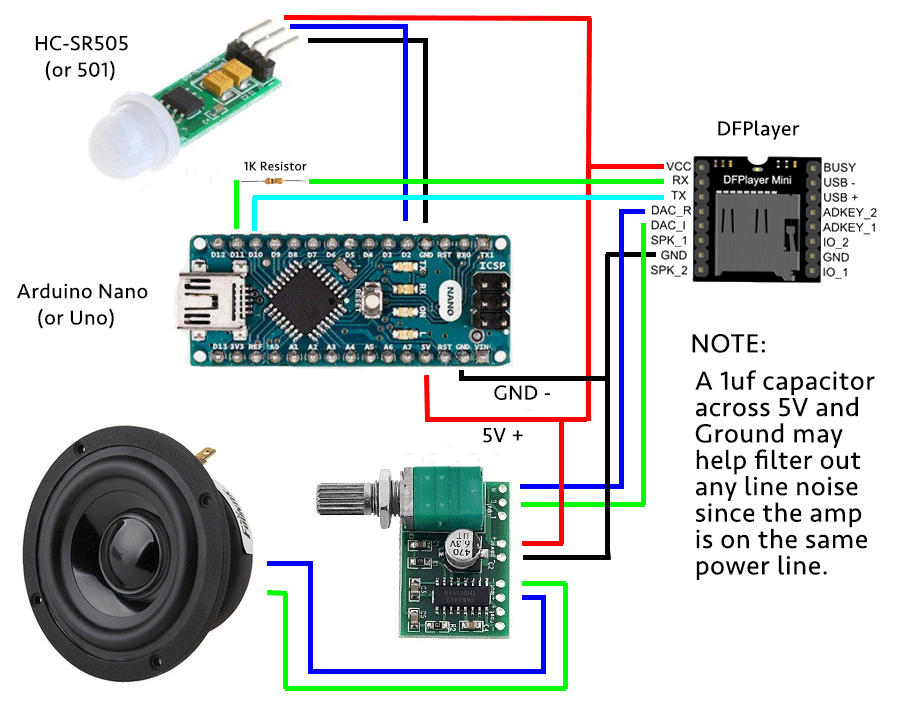
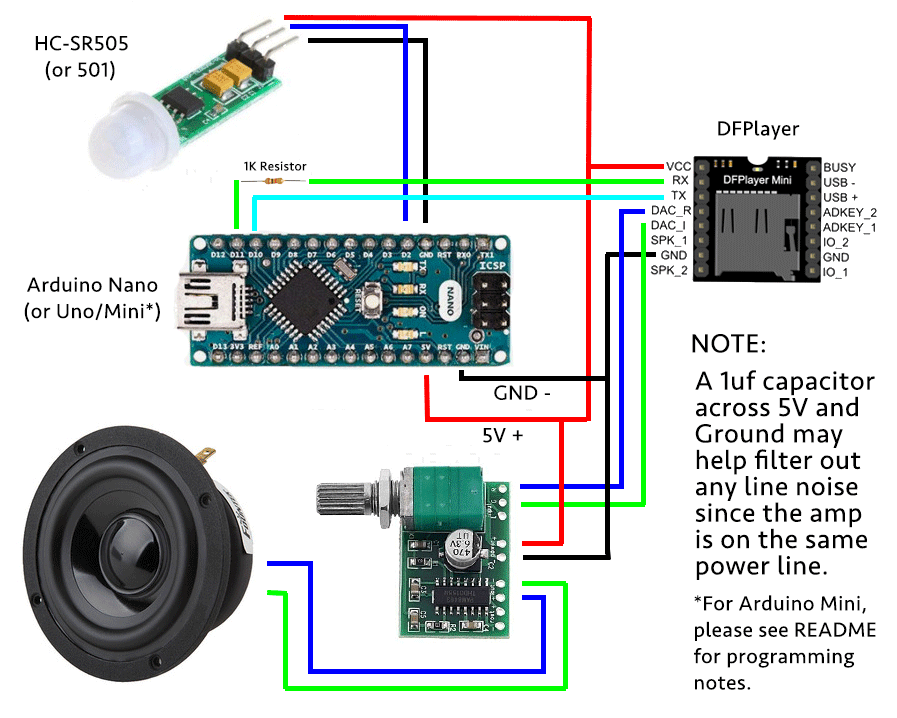
Updating README and diagrams for Pro Mini

Changed region(s): [[0.7804, 0.8273, 0.9989, 0.9805], [0.0, 0.3677, 0.1873, 0.4596], [0.1873, 0.1226, 0.2497, 0.1838]]

diff --git a/README.md b/README.md
@@ -4,7 +4,7 @@ This simple project builds a motion activated sound player.  Each time motion is
 
 The following components are needed (links are my Amazon affiliate links ;) ):
 
-* Arduino (Uno or [Nano](https://www.amazon.com/gp/product/B07D5B3ZGX?ie=UTF8&tag=becauseinterw-20&camp=1789&linkCode=xm2&creativeASIN=B07D5B3ZGX) for the 5V output pin)
+* Arduino [Uno](https://www.amazon.com/gp/product/B01EWOE0UU/ref=as_li_tl?ie=UTF8&camp=1789&creative=9325&creativeASIN=B01EWOE0UU&linkCode=as2&tag=becauseinterw-20&linkId=5a3ff39cbeda2af36acdc02d5aac1787), [Nano](https://www.amazon.com/gp/product/B07D5B3ZGX?ie=UTF8&tag=becauseinterw-20&camp=1789&linkCode=xm2&creativeASIN=B07D5B3ZGX) or [Mini](https://www.amazon.com/gp/product/B00E87VWQW/ref=as_li_tl?ie=UTF8&camp=1789&creative=9325&creativeASIN=B00E87VWQW&linkCode=as2&tag=becauseinterw-20&linkId=3f4a0d20c0498778e8aceed71cba8aaf).
 * PIR (Passive Infrared) sensor such as [HC-SR501](https://www.amazon.com/gp/product/B012ZZ4LPM/ref=as_li_tl?ie=UTF8&camp=1789&creative=9325&creativeASIN=B012ZZ4LPM&linkCode=as2&tag=becauseinterw-20&linkId=7f162de77ee86479375fec4c83243bf7) or [HC-SR505](https://www.amazon.com/gp/product/B07DW49X56?ie=UTF8&tag=becauseinterw-20&camp=1789&linkCode=xm2&creativeASIN=B07DW49X56)
 * [DFPlayer Mini](https://www.amazon.com/gp/product/B01MQ0GFZV?ie=UTF8&tag=becauseinterw-20&camp=1789&linkCode=xm2&creativeASIN=B01MQ0GFZV) (for MP3) and [Micro SD card](https://www.amazon.com/gp/product/B010Q57SEE?ie=UTF8&tag=becauseinterw-20&camp=1789&linkCode=xm2&creativeASIN=B010Q57SEE)
 * Amp board or circuit (such as a [PAM8403](https://www.amazon.com/gp/product/B01DKAI51M?ie=UTF8&tag=becauseinterw-20&camp=1789&linkCode=xm2&creativeASIN=B01DKAI51M))
@@ -25,6 +25,11 @@ This is the maximum number of files your have loaded on your SD card.  For examp
 ```byte volume = 30;```
 
 This is the volume for the DFPlayer.  It affects BOTH the speaker lines out AND the DAC lines.  You could also add a potentiometer and modify the sketch to read that and set the volume, but if you add an amplifier board with a volume control, just set this to 30 (max) and use the volume control on the amplifier.
+
+### Arduino Mini
+If you are using an Arduino Mini/Pro Mini, you'll need to update the digital pins used for the serial communication between the Arduino and DFPlayer.  Simply wire the RX pin of the DFPlayer to pin D8 on the Arduino, and the TX pin to D9, then change the following line:
+
+```SoftwareSerial DFSerial(8, 9);```
 
 ## Adding the Sound Files
 The DFPlayer is a great mult-purpose MP3 player and is easy to use, but it DOES have some quirks:
